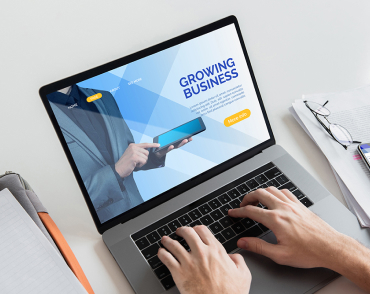
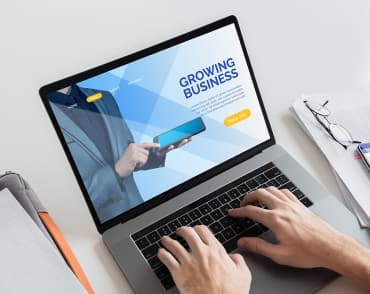
sq
qoosh

diff --git a/index.html b/index.html
@@ -67,7 +67,7 @@
             <div class="container">
             <h2 class="works__section__title">Чим ми займаємось</h2>
             <ul class="works__section_list">
-                <li class="works__section__item"><img class="works__section__img" src="images/about/img.jpg" alt="desktop applications" width="370" height="294"></li>
+                <li class="works__section__item"><img class="works__section__img" src="images/about/computer.jpg" alt="desktop applications" width="370" height="294"></li>
                 <li class="works__section__item"><img class="works__section__img" src="images/about/mobile.jpg" alt="mobile applications" width="370" height="294"></li>
                 <li class="works__section__item"><img class="works__section__img" src="images/about/design.jpg" alt="design solutions" width="370" height="294"></li>
             </ul>
